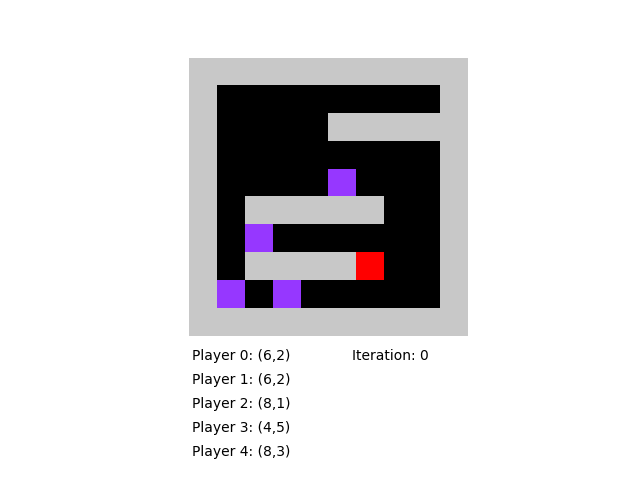
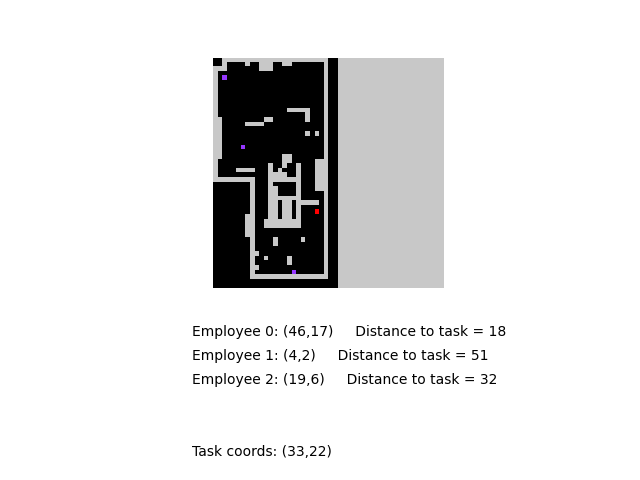
a_star with real floor plan

diff --git a/customoaas.py b/customoaas.py
@@ -21,13 +21,14 @@ class OaasEnv(Env):
     def __init__(self, floorplan):
         
         # Grid Size
+        self.floorplan = floorplan
         #self.floorplan = floorplan
         self.grid_size = len(floorplan) #len(floorplan)
         self.allowed_floorplan = allowed_floorplan(floorplan)
         #print(self.allowed_floorplan)
         #sys.exit(0)
         #Agents in Environment
-        self.num_agents = 5
+        self.num_agents = 3
         self.num_tasks = 1
         # Action Enumeration
         self.num_actions = 5
@@ -56,9 +57,6 @@ class OaasEnv(Env):
             self.observation_space.append(spaces.Box(np.float32(low), np.float32(high)))
         print("Observation Space = ", self.observation_space)
         print("Action Space = ",self.action_space)
-        #self.observation_size = self.obs()
-        #self.observation_size = len(self.observation_size)
-        #print(self.observation_size)
 
     def step(self, action_list):
 
@@ -90,7 +88,7 @@ class OaasEnv(Env):
     def render(self,iter):
         print("I will render")
         fig,ax = plt.subplots(1)
-        fig.subplots_adjust(bottom=0.3)
+        fig.subplots_adjust(bottom=0.4)
         colorstate = np.zeros((self.grid_size, self.grid_size,3),dtype=np.uint8)
         colorstate = color_walls(colorstate, self.allowed_floorplan)
 
@@ -99,7 +97,7 @@ class OaasEnv(Env):
             colorstate[self.agent_dict['player'+str(player_int)].x][self.agent_dict['player'+str(player_int)].y] = (150, 55, 255)
 
         # Render Tasks      
-        colorstate[self.task_dict['task1'].x][self.task_dict['task1'].y] = (255, 0, 0)
+        colorstate[self.task_dict['task1'].x][self.task_dict['task1'].y] = (255, 165, 0)
         #colorstate[self.agent_dict['player'+str(self.num_agents)].x][self.agent_dict['player'+str(self.num_agents)].y] = (255, 50, 50)
         ax.imshow(colorstate, interpolation='None')
         ax.axis('off')
@@ -107,14 +105,17 @@ class OaasEnv(Env):
         for player in range(self.num_agents):
             x_coord = self.agent_dict['player'+str(player)].x
             y_coord = self.agent_dict['player'+str(player)].y
-            fig.text(0.3,0.25-0.05*player,f'Player {player}: ({x_coord},{y_coord})')
+            dist = astar(self.floorplan, self.agent_dict['player'+str(player)].coords, self.task_dict['task1'].coords)
+            fig.text(0.3,0.3-0.05*player,f'Employee {player}: ({x_coord},{y_coord})     Distance to task = {len(dist)}')
+            #fig.text(0.5,0.25-0.05*player,f'Distance to task: ',len(astar(self.floorplan, self.agent_dict['player'+str(player)].coords, self.task_dict['task1'].coords)))
         #x_coord_adv = self.agent_dict['player'+str(self.num_agents)].x
         #y_coord_adv = self.agent_dict['player'+str(self.num_agents)].y
-        #fig.text(0.3,0.15,f'Adversary: ({x_coord_adv},{y_coord_adv})')
+        (x_task, y_task) = self.task_dict['task1'].coords
+        fig.text(0.3,0.05,f'Task coords: ({x_task},{y_task})')
         #fig.text(0.3,0.10,f'Targets: ({self.target1_x},{self.target1_y}) and ({self.target2_x},{self.target2_y})')
-        fig.text(0.55,0.25, f'Iteration: {iter}')
+        #fig.text(0.55,0.25, f'Iteration: {iter}')
         #plt.savefig(f'saved_images/out_{iter}.png')
-        plt.savefig(fname='./renders/live_render')
+        plt.savefig(fname='./renders/live_render'+str(iter))
 
     def reset(self):
 

diff --git a/test.py b/test.py
@@ -2,42 +2,51 @@ from customoaas import *
 import numpy as np
 import yaml
 from libr_floorplan import *
+import json
+import sys
+import os
+import pathlib
 
-#floorplan = [[0,0,0],[1,0,1],[0,0,0]]
 
-#start = (0,0)
-#end = (2,2)
+#print('getcwd:      ', os.getcwd())
+#print('__file__:    ', __file__)
+#print(os.getcwd())
+#sys.exit(0)
 
+# Opening JSON file
+with open('map.json') as json_file:
+    vitaly_floorplan = json.load(json_file)
 
-#path = astar(floorplan, start, end)
-#print(path)
+#print(vitaly_floorplan['map']['height'])
+#print(vitaly_floorplan['map']['width'])
 
-with open('config.yaml') as f:
-    floorplan = yaml.safe_load(f)
+#print(vitaly_floorplan['map']['height'])
+
+floorplan = np.zeros((vitaly_floorplan['map']['width']+1, vitaly_floorplan['map']['height']+1))
+#print(floorplan.shape)
+#sys.exit(0)
+
+for coor in vitaly_floorplan['map']['points']:
+
+    #print(coor)
+    if coor['value'] == 255:
+    #    print(coor)
+    #    print('x = ',coor['x'])
+    #    print('y = ',coor['y'])
+        floorplan[coor['x']][coor['y']] = 1
+
+#print(floorplan)
+#sys.exit(0)
+
+#print(diogos_floorplan[0])
+#sys.exit(0)
 
 env = OaasEnv(floorplan)
 env.render(0)
 
-#if (1,5) in allowed_floorplan:
-#    print("were in")
-#new_task_coords = (4,5)
-#print(env.agent_dict['player0'].coords)
-#print(floorplan)
-#sys.exit(0)
-
-#print(floorplan)
-#start = (1,1)
-#end = (3,2)
-#print(minPushBox(floorplan, start, end))
-#sys.exit(0)
-
-#path = astar(np.array(floorplan), (1,1), (1,7))
-#path = astar(floorplan, (8,7), (1,7))
-#path = astar(floorplan, (6,5), (1,7))
-#path = astar(floorplan, (8,8), (1,7))
-#path = astar(floorplan, (1,5), (1,7))
-
-
 for employee in env.agent_dict:
     dist = astar(floorplan, env.agent_dict[employee].coords, env.task_dict['task1'].coords)
     print("Length of agent", employee, "=" , len(dist))
+
+env.agent_dict['player1'].move(3)
+env.render(1)

diff --git a/libr.py b/libr.py
@@ -11,6 +11,7 @@ class Employee:
     - Assigned task
     '''
     def __init__(self, grid_size, allowed_floorplan):
+        self.grid_size = grid_size
         self.allowed_floorplan = allowed_floorplan
         self.reward = 0
         self.coords = random.sample(self.allowed_floorplan,k=1)[0]
